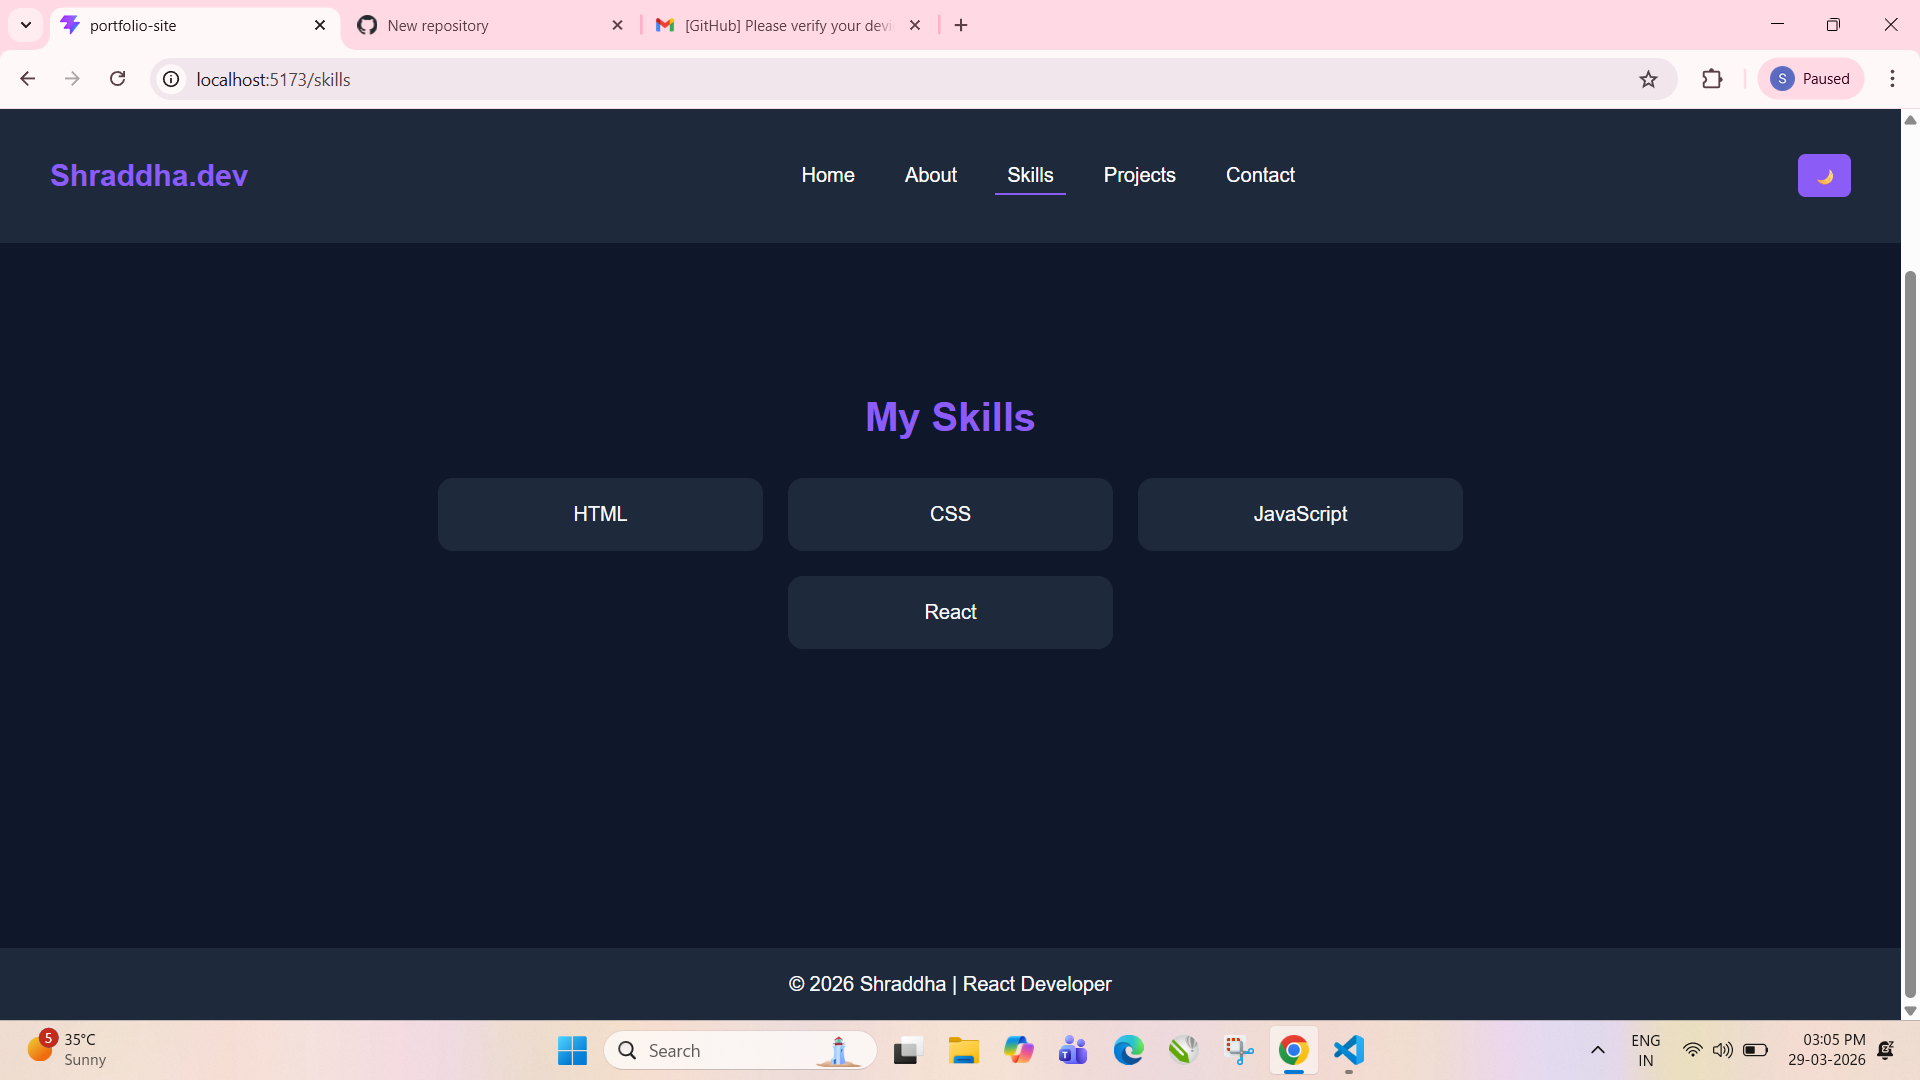
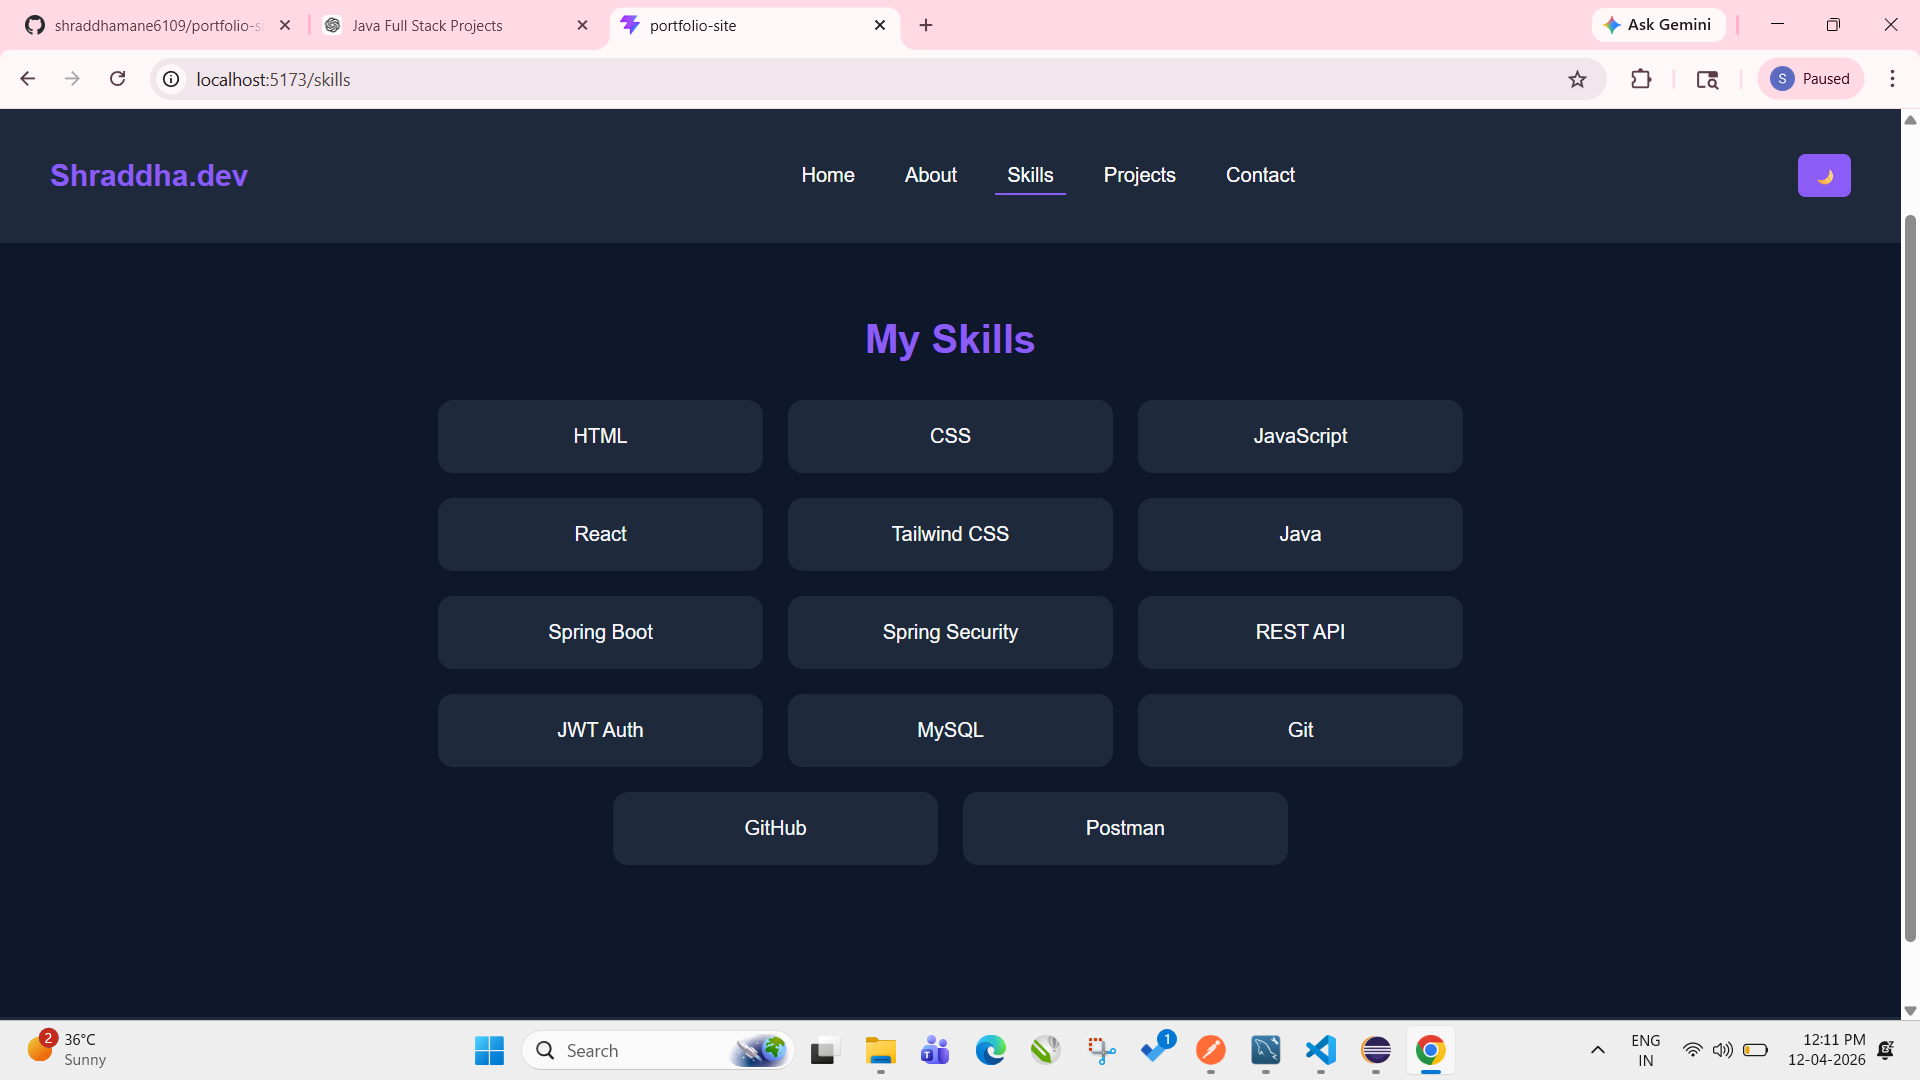
Updated projects, skills and README

diff --git a/src/App.css b/src/App.css
@@ -1,208 +1,3 @@
-  /* body {
-  margin: 0;
-  font-family: "Poppins", sans-serif;
-  background: #0f172a;
-  color: #f8fafc;
-}
-
-a {
-  text-decoration: none;
-  color: white;
-}
-
-section {
-  padding: 80px 40px;
-}
-
-.navbar {
-  position: sticky;
-  top: 0;
-  background: #1e293b;
-  display: flex;
-  justify-content: space-between;
-  padding: 20px 40px;
-  z-index: 1000;
-}
-
-.navbar ul {
-  display: flex;
-  gap: 20px;
-  list-style: none;
-}
-
-.navbar ul li a {
-  color: white;
-  text-decoration: none;
-  padding: 5px 10px;
-}
-
-.navbar ul li a:hover {
-  color: #8b5cf6;
-}
-
-.active {
-  color: #8b5cf6;
-  border-bottom: 2px solid #8b5cf6;
-}
-
-
-.logo {
-  color: #8b5cf6;
-}
-
-
-.hero {
-  display: flex;
-  align-items: center;
-  justify-content: space-around;
-  min-height: 80vh;
-  gap: 40px;
-}
-
-.hero-left h1 {
-  font-size: 3rem;
-}
-
-.hero-left h2 {
-  color: #8b5cf6;
-}
-
-.hero-left button {
-  margin-top: 20px;
-  padding: 12px 24px;
-  border: none;
-  background: #8b5cf6;
-  color: white;
-  border-radius: 8px;
-  cursor: pointer;
-}
-
-.hero-right img {
-  width: 400px;
-}
-
-
-.cards {
-  display: flex;
-  gap: 20px;
-  flex-wrap: wrap;
-}
-
-.card {
-  background: #1e293b;
-  padding: 20px;
-  border-radius: 12px;
-  min-width: 150px;
-}
-
-.contact-form {
-  display: flex;
-  flex-direction: column;
-  max-width: 500px;
-  gap: 15px;
-}
-
-.contact-section {
-  min-height: 80vh;
-  padding: 60px 20px;
-  text-align: center;
-}
-
-.contact-form {
-  max-width: 500px;
-  margin: 30px auto;
-  display: flex;
-  flex-direction: column;
-  gap: 15px;
-}
-
-.contact-form input,
-.contact-form textarea {
-  padding: 15px;
-  border: 1px solid gray;
-  border-radius: 8px;
-  font-size: 16px;
-}
-
-.contact-form textarea {
-  min-height: 120px;
-}
-
-.contact-form button {
-  padding: 12px;
-  border: none;
-  border-radius: 8px;
-  background: blueviolet;
-  color: white;
-  font-size: 16px;
-  cursor: pointer;
-}
-
-
-.footer {
-  text-align: center;
-  padding: 20px;
-  background: #1e293b;
-}
-.page-section {
-  min-height: 80vh;
-  padding: 60px 20px;
-  display: flex;
-  justify-content: center;
-  align-items: center;
-}
-
-.page-container {
-  width: 100%;
-  max-width: 900px;
-  text-align: center;
-}
-
-.page-container h1 {
-  margin-bottom: 30px;
-  color: #8b5cf6;
-}
-.page-container p {
-  margin: 10px 0;
-  font-size: 18px;
-}
-
-.card-container {
-  display: flex;
-  gap: 20px;
-  flex-wrap: wrap;
-  justify-content: center;
-}
-
-.card {
-  background: #1e293b;
-  padding: 20px;
-  border-radius: 12px;
-  min-width: 220px;
-}
-
-.contact-form {
-  display: flex;
-  flex-direction: column;
-  gap: 15px;
-  max-width: 500px;
-  margin: auto;
-}
-
-.contact-form input,
-.contact-form textarea {
-  padding: 15px;
-  border-radius: 8px;
-  border: none;
-}
-
-.contact-form button {
-  padding: 14px;
-  background: blueviolet;
-  color: white;
-  border: none;
-  border-radius: 8px;
-} */
 
 /* ===== GLOBAL ===== */
 body {

diff --git a/src/pages/Projects.jsx b/src/pages/Projects.jsx
@@ -2,13 +2,22 @@ function Projects() {
   const projects = [
     {
       title: "Portfolio Website",
-      desc: "A modern responsive portfolio built using React."
+      desc: "Responsive React portfolio website with modern UI, animations, and dark/light mode showcasing my projects and skills. Built with React, Tailwind CSS, and Framer Motion for smooth animations."
     },
   
     {
-      title: "Weather App",
-      desc: "Real-time weather app using API integration."
+      title: "Foodies Website",
+      desc: "A responsive restaurant landing page built with React.js and Tailwind CSS, featuring a menu, cart functionality, smooth scrolling navigation, and contact form."
+    },
+    {
+      title: "Login Authentication System",
+      desc: "Full-stack role-based authentication app built with Spring Boot, React (Vite), Tailwind CSS, and MySQL. Features JWT authentication, secure login/register, admin dashboard, user management, protected routes, and delete user functionality."
+    },
+    {
+      title: "Student Management System",
+      desc: "Student Management System with full CRUD functionality built using React, Spring Boot, and MySQL. Features include add, edit, delete, and view students with REST API integration."
     }
+
   ];
 
   return (
@@ -16,9 +25,9 @@ function Projects() {
       <div className="page-container">
         <h1>My Projects</h1>
 
-        <div className="card-container">
+        <div className="card-container flex flex-wrap">
           {projects.map((project, index) => (
-            <div className="card" key={index}>
+            <div className="card flex flex-row" key={index}>
               <h3>{project.title}</h3>
               <p>{project.desc}</p>
             </div>

diff --git a/src/pages/Skills.jsx b/src/pages/Skills.jsx
@@ -1,8 +1,22 @@
 import { motion } from "framer-motion";
 
 function Skills() {
-  const skills = ["HTML", "CSS", "JavaScript", "React"];
-
+  const skills = [
+  "HTML",
+  "CSS",
+  "JavaScript",
+  "React",
+  "Tailwind CSS",
+  "Java",
+  "Spring Boot",
+  "Spring Security",
+  "REST API",
+  "JWT Auth",
+  "MySQL",
+  "Git",
+  "GitHub",
+  "Postman"
+];
   return (
     <section className="page-section">
       <div className="page-container">

diff --git a/src/components/Footer.jsx b/src/components/Footer.jsx
@@ -1,7 +1,7 @@
 function Footer() {
   return (
     <footer className="footer">
-      © 2026 Shraddha | React Developer
+      © 2026 Shraddha | React Developer | Full Stack Developer 
     </footer>
   );
 }

diff --git a/README.md b/README.md
@@ -56,10 +56,10 @@ src/
 ![Home](public/screenshots/home.png)
 
 ### 👩💻 Skills Page
-![About](public/screenshots/Skills.png)![Skills-Page]
+![About](public/screenshots/skills.png)![Skills-Page]
 
 ### 📁 Projects Page
-![Projects](public/screenshots/projects.png)
+![Projects](public/screenshots/project.png)
 
 ---
 
